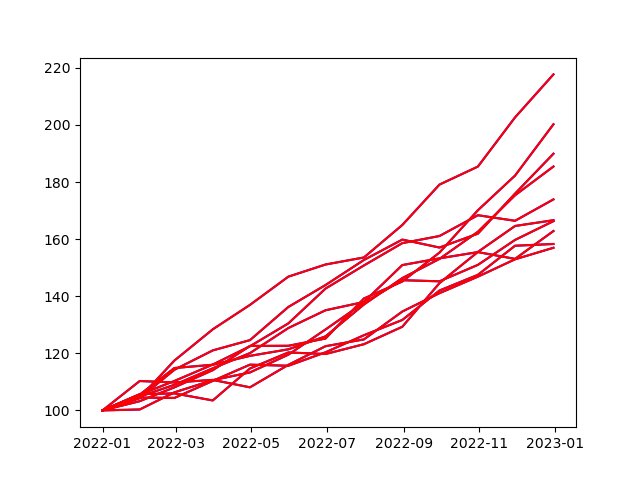
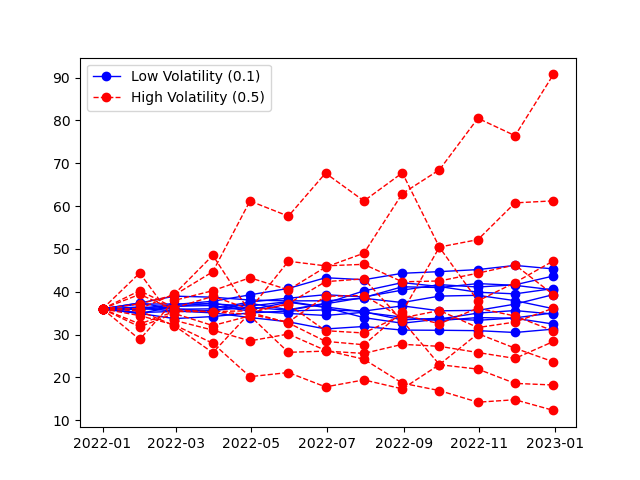
Fixed error in the equation of evolution

diff --git a/main.py b/main.py
@@ -1,44 +1,44 @@
 from importlib.resources import path
+
+from matplotlib import markers
 from market_environment import *
 from geometric_brownian_motion import *
 from short_rate import *
 
 import matplotlib.pyplot as plt
-'''
-dates = [dt.datetime(2015, 1, 1), dt.datetime(2015, 7, 1),dt.datetime(2016, 1, 1)]
-csr = constant_short_rate('csr', 0.05)
-print(csr.get_year_deltas(dates))
-print(csr.short_rate)
-print(csr.get_discount_factors(dates, dtobjects=True))
-'''
-# Working Example
 
-# Set market environment and its attributes
-menv_gbm = market_environment('me_gbm', dt.datetime(2022,1,1))
+def main():
+    # Working Example
 
-menv_gbm.add_constant('initial_value', 100)
-menv_gbm.add_constant('volatility'   , 0.1)
-menv_gbm.add_constant('final_date'   , dt.datetime(2022,12,31))
-menv_gbm.add_constant('currency'     , 'USD')
-menv_gbm.add_constant('frequency'    , 'M')
-menv_gbm.add_constant('paths'        , 10000)
+    # Set market environment and its attributes
+    menv_gbm = market_environment('me_gbm', dt.datetime(2022,1,1))
 
-csr = constant_short_rate('csr', 0.05)
-menv_gbm.add_curve('discount_curve', csr)
-gbm = geometric_brownian_motion('gbm', menv_gbm)
+    menv_gbm.add_constant('initial_value', 36)
+    menv_gbm.add_constant('volatility'   , 0.1)
+    menv_gbm.add_constant('final_date'   , dt.datetime(2022,12,31))
+    menv_gbm.add_constant('currency'     , 'USD')
+    menv_gbm.add_constant('frequency'    , 'M')
+    menv_gbm.add_constant('paths'        , 10)
 
-gbm.generate_time_series()
+    csr = constant_short_rate('csr', 0.05)
+    menv_gbm.add_curve('discount_curve', csr)
+    gbm = geometric_brownian_motion('gbm', menv_gbm)
 
-# First Path
-paths_1 = gbm.get_instrument_values()
-vol1 = gbm.volatility
+    gbm.generate_time_series()
 
-gbm.update(volatility=0.5)
-paths_2 = gbm.get_instrument_values()
-vol2 = gbm.volatility
+    # First Path
+    paths_1 = gbm.get_instrument_values(fixed_seed=False)
+    vol1 = gbm.volatility
 
-fig, ax = plt.subplots()
-ax.plot(gbm.time_series, paths_1[:,:10], color = 'blue')
-ax.plot(gbm.time_series, paths_2[:,:10], color = 'red')
-#ax.legend()
-fig.savefig('outputs/test.png')
+    gbm.update(volatility=0.5)
+    paths_2 = gbm.get_instrument_values(fixed_seed=False)
+    vol2 = gbm.volatility
+
+    fig, ax = plt.subplots()
+    p1 = ax.plot(gbm.time_series, paths_1[:,:20], ls = '-', lw = 1, color = 'blue', marker = 'o')
+    p2 = ax.plot(gbm.time_series, paths_2[:,:20], ls = '--', lw = 1, color = 'red', marker = 'o')
+    ax.legend([p1[0], p2[0]], [f"Low Volatility ({vol1})",f"High Volatility ({vol2})"], loc = 'upper left')
+    fig.savefig('outputs/test.png')
+
+if __name__ == '__main__':
+    main()

diff --git a/geometric_brownian_motion.py b/geometric_brownian_motion.py
@@ -14,6 +14,8 @@ class geometric_brownian_motion(simulation_class):
         if final_date is not None:
             self.final_date = final_date
 
+        self.instrument_values = None
+
     def generate_paths(self, fixed_seed = False, day_count = 365):
         if self.time_series is None:
             self.generate_time_series()
@@ -38,7 +40,8 @@ class geometric_brownian_motion(simulation_class):
             else:
                 ran = np.dot(self.cholesky_matrix, rand[:, t, :])
                 ran = ran[self.rn_set]
+
             dt = (self.time_series[t] - self.time_series[t-1]).days/day_count
-            paths[t] = paths[t-1] * np.exp((short_rate - 0.5*self.volatility**2) + self.volatility * np.sqrt(dt) * ran)
+            paths[t] = paths[t-1] * np.exp((short_rate - 0.5*self.volatility**2) * dt + self.volatility * np.sqrt(dt) * ran)
         
         self.instrument_values = paths
